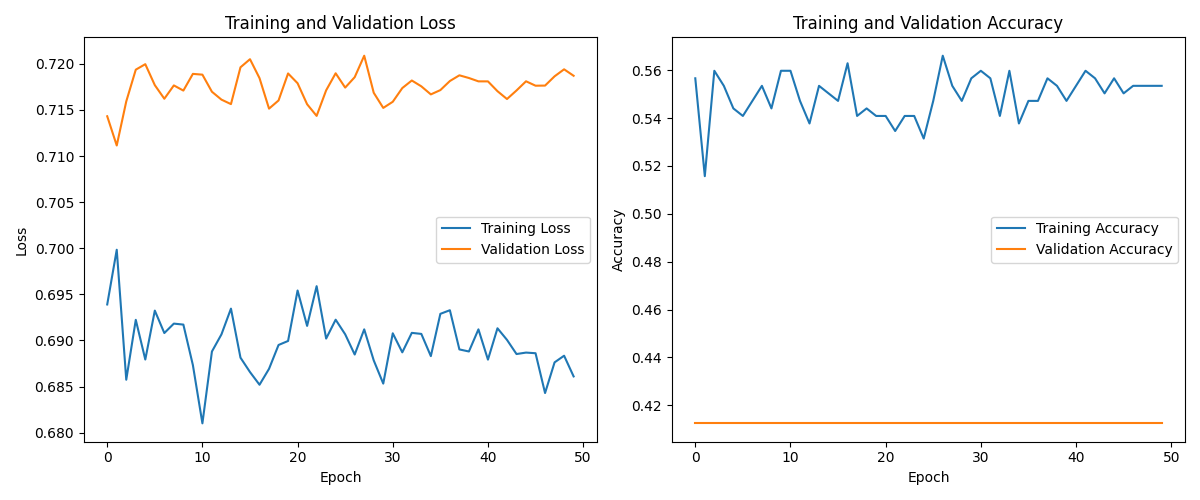
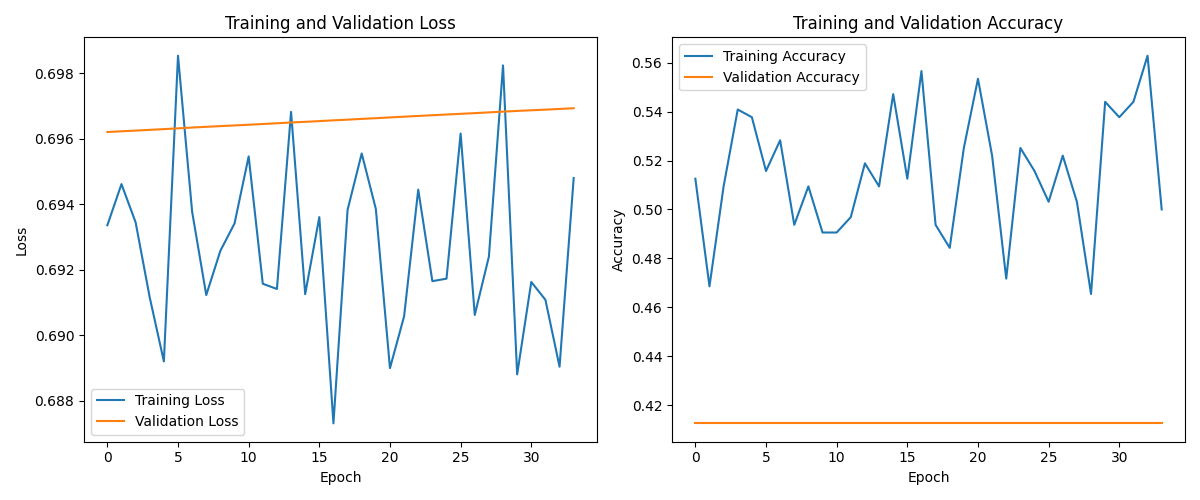
lstm 1.1

diff --git a/stock_prediction_lstm.py b/stock_prediction_lstm.py
@@ -15,6 +15,9 @@ tf.random.set_seed(42)
 # Parameters
 LAG_WINDOW = 5  # Size of the lag window (Δd)
 TEST_SIZE = 0.2  # Proportion of data to use for testing
+# USE_SENTIMENT = True  # Switch to toggle sentiment feature
+USE_SENTIMENT = False  # Switch to toggle sentiment feature
+
 
 def load_and_prepare_data(file_path):
     """Load and prepare the dataset."""
@@ -66,7 +69,7 @@ def build_model(input_shape):
     ])
     
     model.compile(
-        optimizer=Adam(learning_rate=0.001),
+        optimizer=Adam(learning_rate=0.000001),
         loss='binary_crossentropy',
         metrics=['accuracy']
     )
@@ -82,6 +85,14 @@ def main():
     # Normalize numerical features
     # scaler = MinMaxScaler()
     features = data.columns[1:]  # Exclude date
+    
+    # Filter out sentiment if not using it
+    if not USE_SENTIMENT and 'sentiment_numeric' in features:
+        features = [f for f in features if f != 'sentiment_numeric']
+        print(f"Training without sentiment. Features used: {features}")
+    else:
+        print(f"Training with sentiment. Features used: {features}")
+    
     # data_scaled = pd.DataFrame(scaler.fit_transform(data[features]), columns=features)
     data_scaled = data[features]  # Use raw data without normalization
     
@@ -110,7 +121,7 @@ def main():
     
     history = model.fit(
         X_train, y_train,
-        epochs=50,
+        epochs=34,
         batch_size=32,
         validation_split=0.2,
         verbose=1
